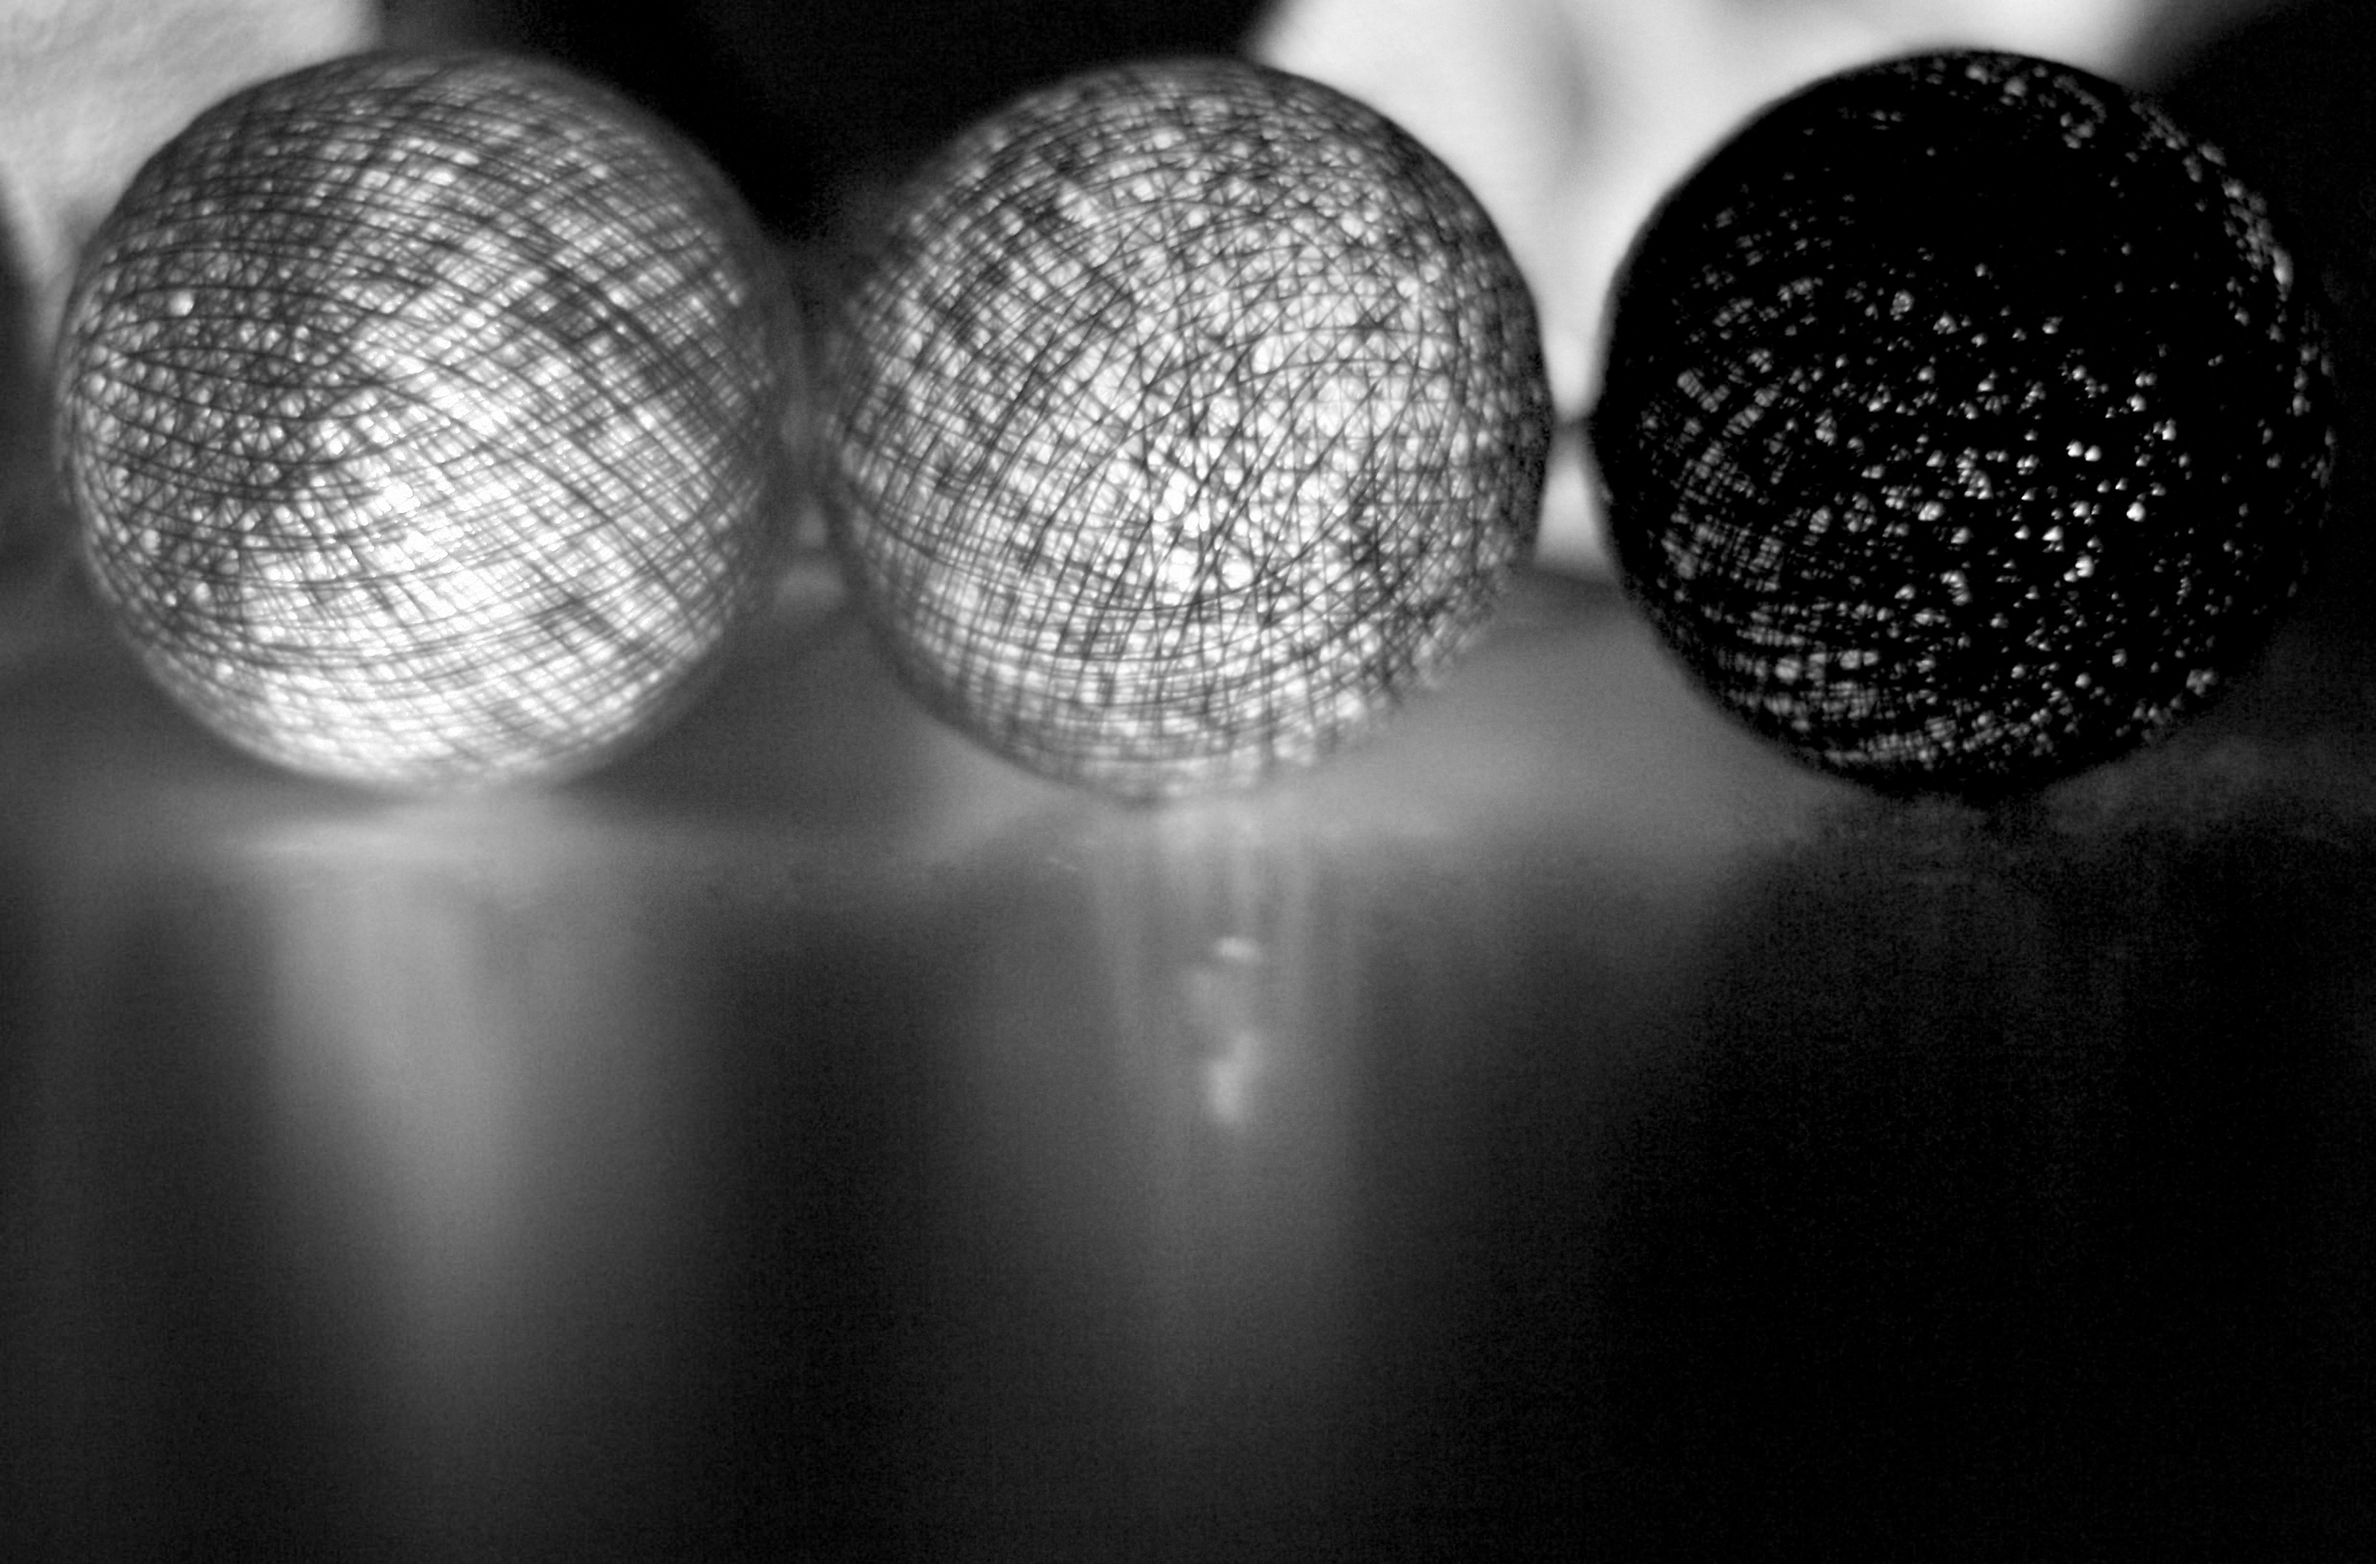
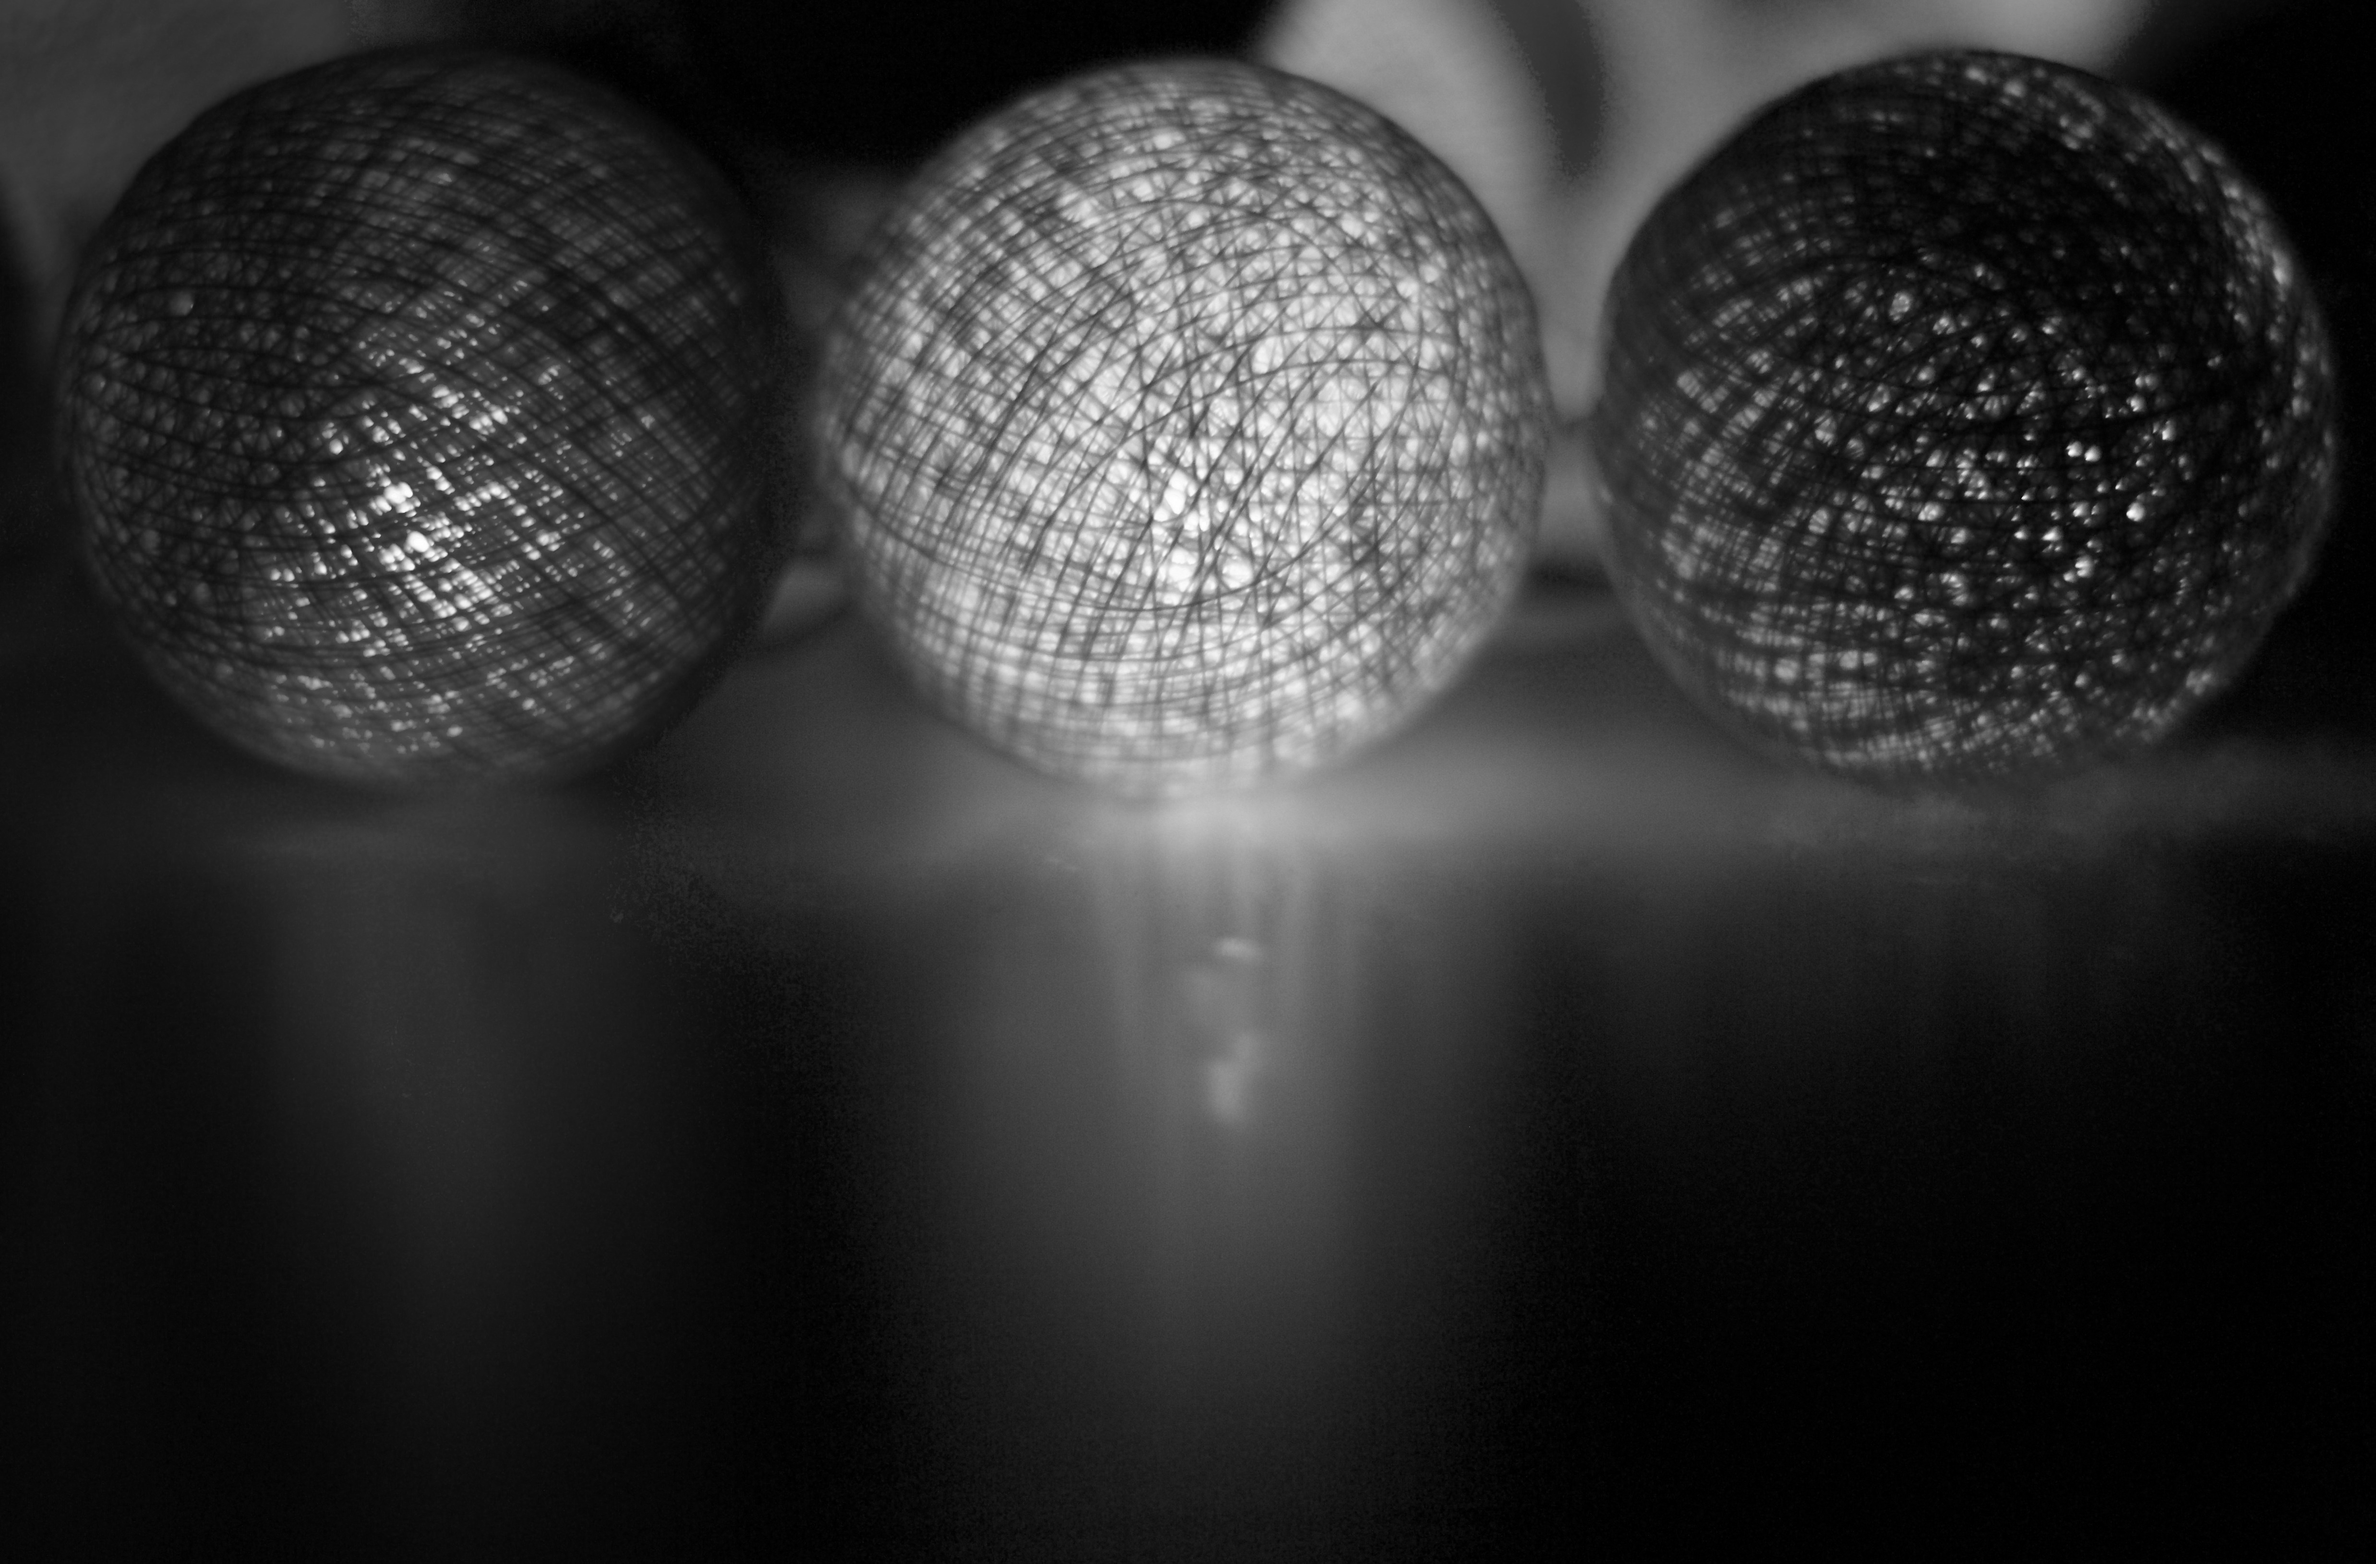
refactored the codebase

diff --git a/Lab-1/RGB2GREY.py b/Lab-1/RGB2GREY.py
@@ -1,21 +1,21 @@
 
-import matplotlib.pyplot as plt
+import cv2
 import numpy as np
 
-# Read the image
-image = plt.imread("lab-1/images/color.jpg")
-print(image.shape)
+image = cv2.imread("lab-1/images/color.jpg")
 
-# Get the RGB channels
-R = image[:, :, 0]
+B = image[:, :, 0]
 G = image[:, :, 1]
-B = image[:, :, 2]
+R = image[:, :, 2]
 
-# Use only the Red channel
-gray = R
+gray = 0.299 * R + 0.587 * G + 0.114 * B
 
-# Display the grayscale image
-plt.imshow(gray, cmap="gray")
-plt.imsave("lab-1/images/grey.jpg", gray, cmap="gray")
-plt.axis("off")
-plt.show()
+gray = gray.astype(np.uint8)
+
+cv2.imshow("Original", image)
+cv2.imshow("Grayscale", gray)
+
+cv2.imwrite("lab-1/images/grey.jpg", gray)
+
+cv2.waitKey(0)
+cv2.destroyAllWindows()

diff --git a/Lab-1/Color_seperation.py b/Lab-1/Color_seperation.py
@@ -17,7 +17,7 @@ red_image = image.copy()
 red_image[:, :, 0] = 0  
 red_image[:, :, 1] = 0  
 
-# Display all images
+#Display all images
 cv2.imshow("Original", image)
 cv2.imshow("Blue Image", blue_image)
 cv2.imshow("Green Image", green_image)
